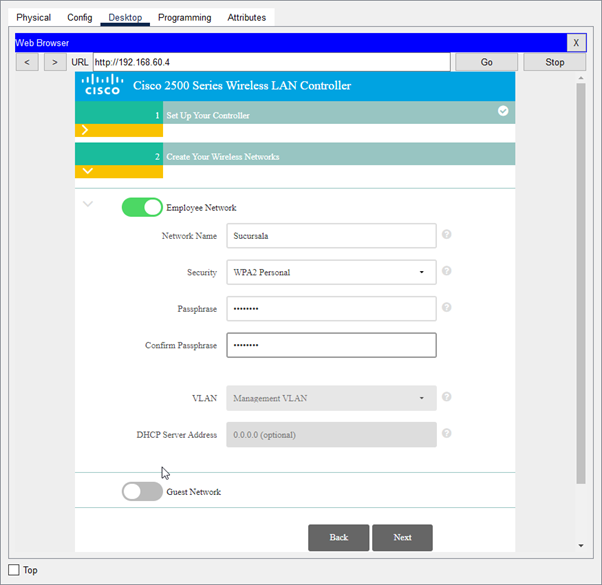
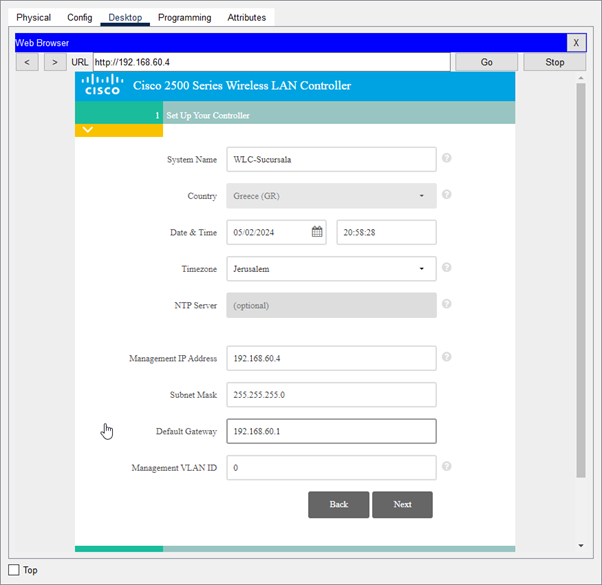
LAN 2 WLC

Changed region(s): [[0.1196, 0.1846, 0.8671, 0.9538], [0.9568, 0.8, 0.9867, 0.8308], [0.1495, 0.7077, 0.1794, 0.7385]]

diff --git a/Implementare/LAN2_Client/4. configurarea_rețelei_fără_fir.md b/Implementare/LAN2_Client/4. configurarea_rețelei_fără_fir.md
@@ -3,10 +3,7 @@ ________________________________________________
 
 !Dublu click pe dispozitiv -> fila Config -> secțiunea management
 
-Adresă IPv4: 192.168.60.4
-Masca Subrețelei: 255.255.255.0
-Calea de acces către Internet: 192.168.60.1
-Server DNS: 192.168.70.3
+![Alt text](../../poze/poze%20Configurare%20WLC/LAN%202/WLC_LAN%202_MNG.png)
 
 ### Creare cont pe Controler ###
 ________________________________
@@ -16,56 +13,88 @@ ________________________________
 1. Crearea unui Cont de Administrator:
 
 Nume: "Adrian"
+
 Parolă: "Licenta1"
+
 Confirmare Parolă: Reintroduceți parola pentru confirmare.
+
 ! Apăsați butonul "Start" pentru a crea contul de administrator.
+
+![Alt text](../../poze/poze%20Configurare%20WLC/LAN%202/configurare%20WLC/configurare%201.png)
 
 2. Setarea Controlerului:
 
-System Name: "WLC-Sucursala"
-Country: "Greece (GR)"
-Date & Time: "04/26/2024" și "23:55:27"
-Timezone: "Jerusalem"
-Management IP Address: "192.168.60.4"
-Subnet Mask: "255.255.255.0"
-Default Gateway: "192.168.60.1"
-Management VLAN ID: "0"
+![Alt text](../../poze/poze%20Configurare%20WLC/LAN%202/configurare%20WLC/configurare%202.png)
+
 ! Apăsați "Next" pentru a continua.
 
 3. Crearea Rețelei fără fir:
 
+![Alt text](../../poze/poze%20Configurare%20WLC/LAN%202/configurare%20WLC/configurare%203.png)
+
 Employee Network: bifați pentru activare
-Network Name: "Sucursala"
-Security: "WPA2 Personal"
-Passphrase: "Licenta1"
+
 Confirm Passphrase: Reintroduceți parola pentru confirmare.
+
 VLAN: Selectați VLAN-ul pentru rețea (default: management VLAN).
+
 ! Apăsați "Next" pentru a continua.
 
 4. Setări Avansate:
 
-Activați sau dezactivați optimizarea parametrilor RF.
-Adresa IP virtuală: "192.0.2.1."
-Selectați grupul de mobilitate local, "Default."
+Cele din oficiu sunt lasate la fel.
+
+![Alt text](../../poze/poze%20Configurare%20WLC/LAN%202/configurare%20WLC/configurare%204.png)
+
 ! Apăsați "Next" pentru a finaliza configurarea.
 
 ### Configurarea subrețelei fără fir ###
 ____________________________________________
 
 !Accesăm controlerul de pe o stație de lucru prin protocolul HTTPS. Accesăm tabul WLANs.
+
+________________________________________________________________________________________
+
 !Se apasă "Create new"
+
 !Se setează:
+
 Type: WLAN
+
 Profile Name: Introduceți Sucursala_Firm/Sucursala_Guest/Sucursala ca nume de profil.
+
 SSID: Introduceți Sucursala_Firm/Sucursala_Guest/Sucursala ca SSID al rețelei.
+
 ID: Selectați 1/2/3 din lista derulantă pentru a aloca un ID unic rețelei.
+
 !Apăsați Apply și apoi bifați Enabled (secțiunea General) pentru a salva și aplica modificările realizate la configurarea fiecărui WLAN.
 
+![Alt text](../../poze/poze%20Configurare%20WLC/LAN%202/configurare%20WLAN/configurare%20wlan%201.png)
+
+![Alt text](../../poze/poze%20Configurare%20WLC/LAN%202/configurare%20WLAN/configurare%20wlan%202.png)
+
 !Configurarea securității pe fiecare WLAN în parte:
+
+___________________________________________________
+
 1.În interfața de configurare a controlerului, după ce ați creat un WLAN, navigați la secțiunea Security pentru a configura setările de securitate.
+
 2.În fila Layer 2, setați Layer 2 Security la WPA+WPA2 pentru a utiliza metode de criptare WPA și WPA2.
+
 3.Bifați opțiunea WPA2 Policy pentru a activa politica WPA2.
+
 3.În secțiunea WPA2 Encryption, selectați AES pentru a utiliza Advanced Encryption Standard (AES) ca metodă de criptare.
+
 4.În secțiunea Authentication Key Management, bifați opțiunea PSK pentru a utiliza o cheie pre-partajată (Pre-Shared Key).
+
 5.Introduceți parola Licenta1 în câmpul PSK Format și selectați ASCII pentru a defini formatul cheii.
+
 Apăsați Apply pentru a salva și aplica modificările realizate.
+
+![Alt text](../../poze/poze%20Configurare%20WLC/LAN%202/configurare%20WLAN/configurare%20wlan%204.png)
+
+![Alt text](../../poze/poze%20Configurare%20WLC/LAN%202/configurare%20WLAN/configurare%20wlan%206.png)
+
+În final WLAN-urile rezultate ar trebui să fie:
+
+![Alt text](../../poze/poze%20Configurare%20WLC/LAN%202/configurare%20WLAN/configurare%20wlan%207.png)

diff --git a/Implementare/LAN1_Client/4. configurarea_rețelei_fără_fir.md b/Implementare/LAN1_Client/4. configurarea_rețelei_fără_fir.md
@@ -46,6 +46,8 @@ Cele din oficiu sunt lasate la fel.
 
 ![Alt text](../../poze/poze%20Configurare%20WLC/LAN%201/configurare%20WLC/configurare%204.png)
 
+! Apăsați "Next" pentru a finaliza configurarea.
+
 ### Configurarea subrețelei fără fir ###
 ____________________________________________
 
